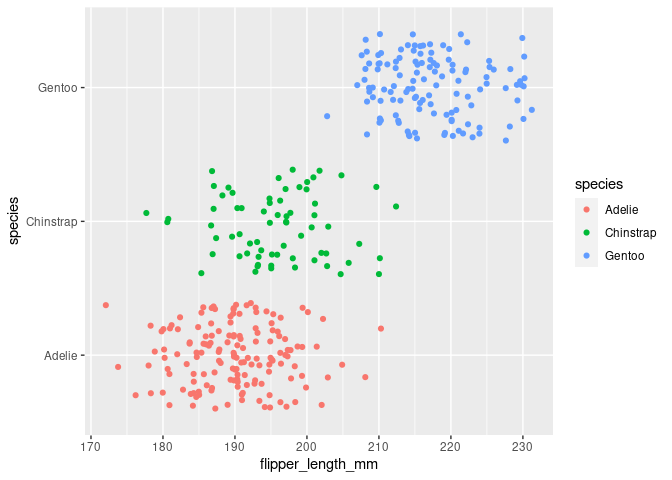
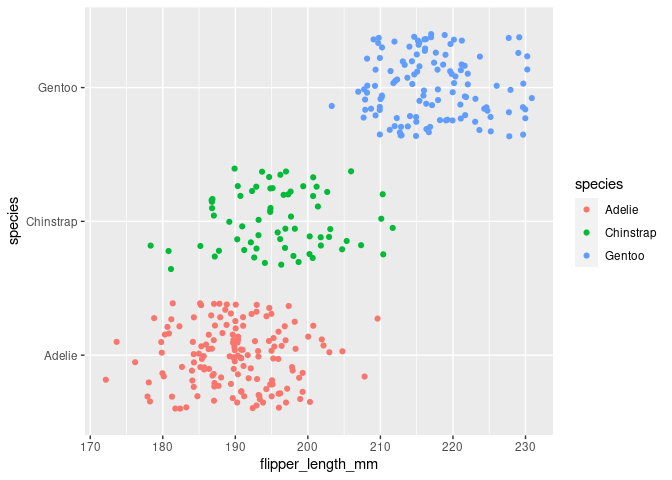
Added more graphs and tested adding effects to different layers

diff --git a/activity02-ggplot2-intro.md b/activity02-ggplot2-intro.md
@@ -192,7 +192,8 @@ and compare/contrast your `activity02-ggplot2-intro.Rmd` and
 `activity02-ggplot2-intro.md` files. Which is easier to read? Which
 looks more professional?
 
-**Response**:
+**Response**: The .md file is way easier to read and looks more
+professional
 
 Now, wouldn’t it be nice if we could combine these two plots so that we
 get the benefits of both!?! That is, how can we overlay the jitterplot
@@ -202,10 +203,24 @@ my *hint*:
 -   Re-create the boxplot with color that you did above, then
 -   *Add* another geometry layer for the jitterplot.
 
+``` r
+ggplot(data = penguins, mapping = aes(x = flipper_length_mm, y = species, fill = species)) +
+  geom_boxplot()+
+  geom_jitter()
+```
+
+    ## Warning: Removed 2 rows containing non-finite values (stat_boxplot).
+
+    ## Warning: Removed 2 rows containing missing values (geom_point).
+
+![](activity02-ggplot2-intro_files/figure-gfm/box-jitter-combined-1.png)<!-- -->
+
 Play around with doing the jitterplot laid over the boxplot and the
 boxplot laid over the jitterplot. Which do you prefer? Why?
 
-**Response**:
+**Response**: I preferred the jitterplot layed over the boxplot because
+the other way around caused the boxplot to ‘block’/be on top of some of
+the jitters
 
 This is getting us closer to one of my favorite plots - the raincloud
 plot. We are not quite ready to create this plot, but we will get there
@@ -219,12 +234,26 @@ default white coloring. In the code chunk below, explore different
 methods to try to create this plot. A hint, all `geom_*` have a
 `mapping` argument.
 
+``` r
+ggplot(data=penguins)+
+  geom_boxplot(mapping = aes(x= flipper_length_mm, y=species))+
+  geom_jitter(mapping = aes(x= flipper_length_mm, y=species, color = species))
+```
+
+    ## Warning: Removed 2 rows containing non-finite values (stat_boxplot).
+
+    ## Warning: Removed 2 rows containing missing values (geom_point).
+
+![](activity02-ggplot2-intro_files/figure-gfm/jitter-colored-only-1.png)<!-- -->
+
 In the above code chunk, continue to play around with having the
 aesthetics mapped in the different layers. For example, how does having
 all of them mapped in the `ggplot` call compared to having these instead
 mapped in the `geom_boxplot` layer? Comment on what you notice.
 
-**Response**:
+**Response**: Having things mapped in the ggplot call seems to change
+all of the geoms\_ If I wanted to change a geom\_ specifically, I would
+change just that layer
 
 Knit, stage, commit (with a meaningful commit message),and push
 everything in your **Git** pane to your GitHub repo. Go to GitHub and
